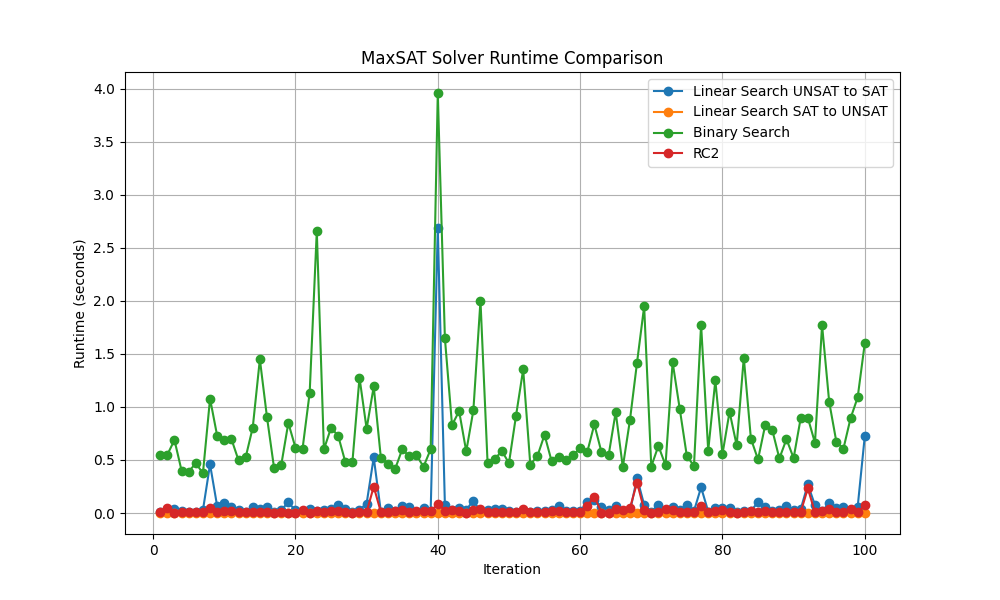
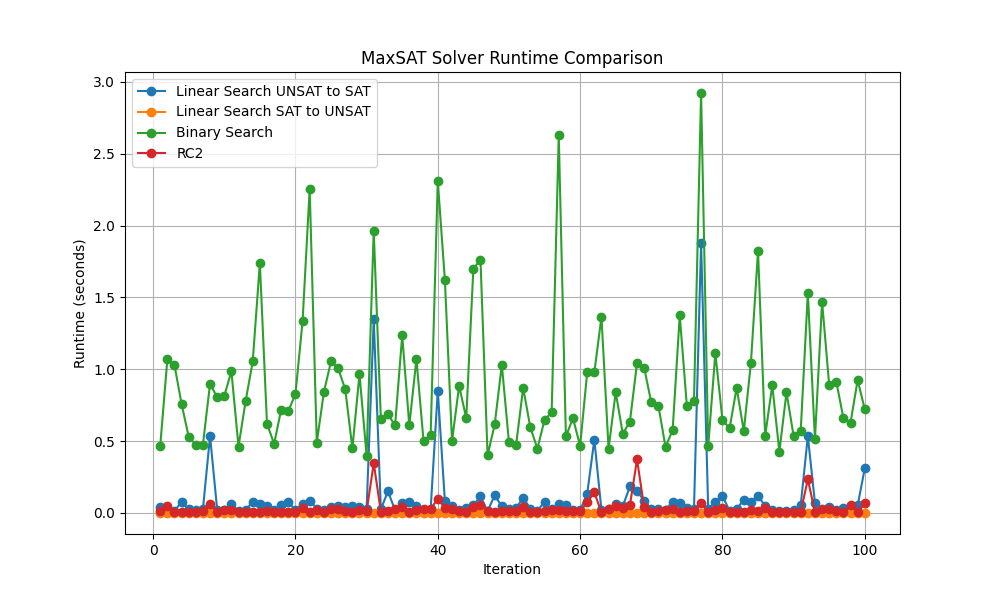
ran benchmarks again after bug created new images also updated readme

diff --git a/Readme.md b/Readme.md
@@ -42,15 +42,13 @@ Since the linear search sat to unsat is extremly large compared to others, I als
 
 The output is given next:
 ```
-uuf75-325 without sat2unsat
-
 Runtime Statistics:
                             count       mean       std        min        25%        50%        75%        max
-Method                                                                                                       
-Binary Search               100.0   0.826595  0.509808   0.396945   0.532988   0.643181   0.923771   4.098735
-Linear Search SAT to UNSAT  100.0  38.391988  2.564815  32.732038  36.821270  38.393613  40.370913  48.084874
-Linear Search UNSAT to SAT  100.0   0.088561  0.273392   0.011622   0.021904   0.034318   0.065464   2.628341
-RC2                         100.0   0.022646  0.041704   0.002813   0.005854   0.009529   0.021461   0.272438
+Method
+Binary Search               100.0   1.007445  0.563428   0.411773   0.630405   0.871484   1.142933   3.098846
+Linear Search SAT to UNSAT  100.0  41.385016  4.486095  34.693433  38.130008  40.813770  43.545779  58.885194
+Linear Search UNSAT to SAT  100.0   0.110980  0.252286   0.013358   0.027040   0.047493   0.081817   1.946944
+RC2                         100.0   0.033634  0.058430   0.004137   0.009207   0.014691   0.035384   0.370306
 
 0 of 100 formulas where satisfiable
 ```
